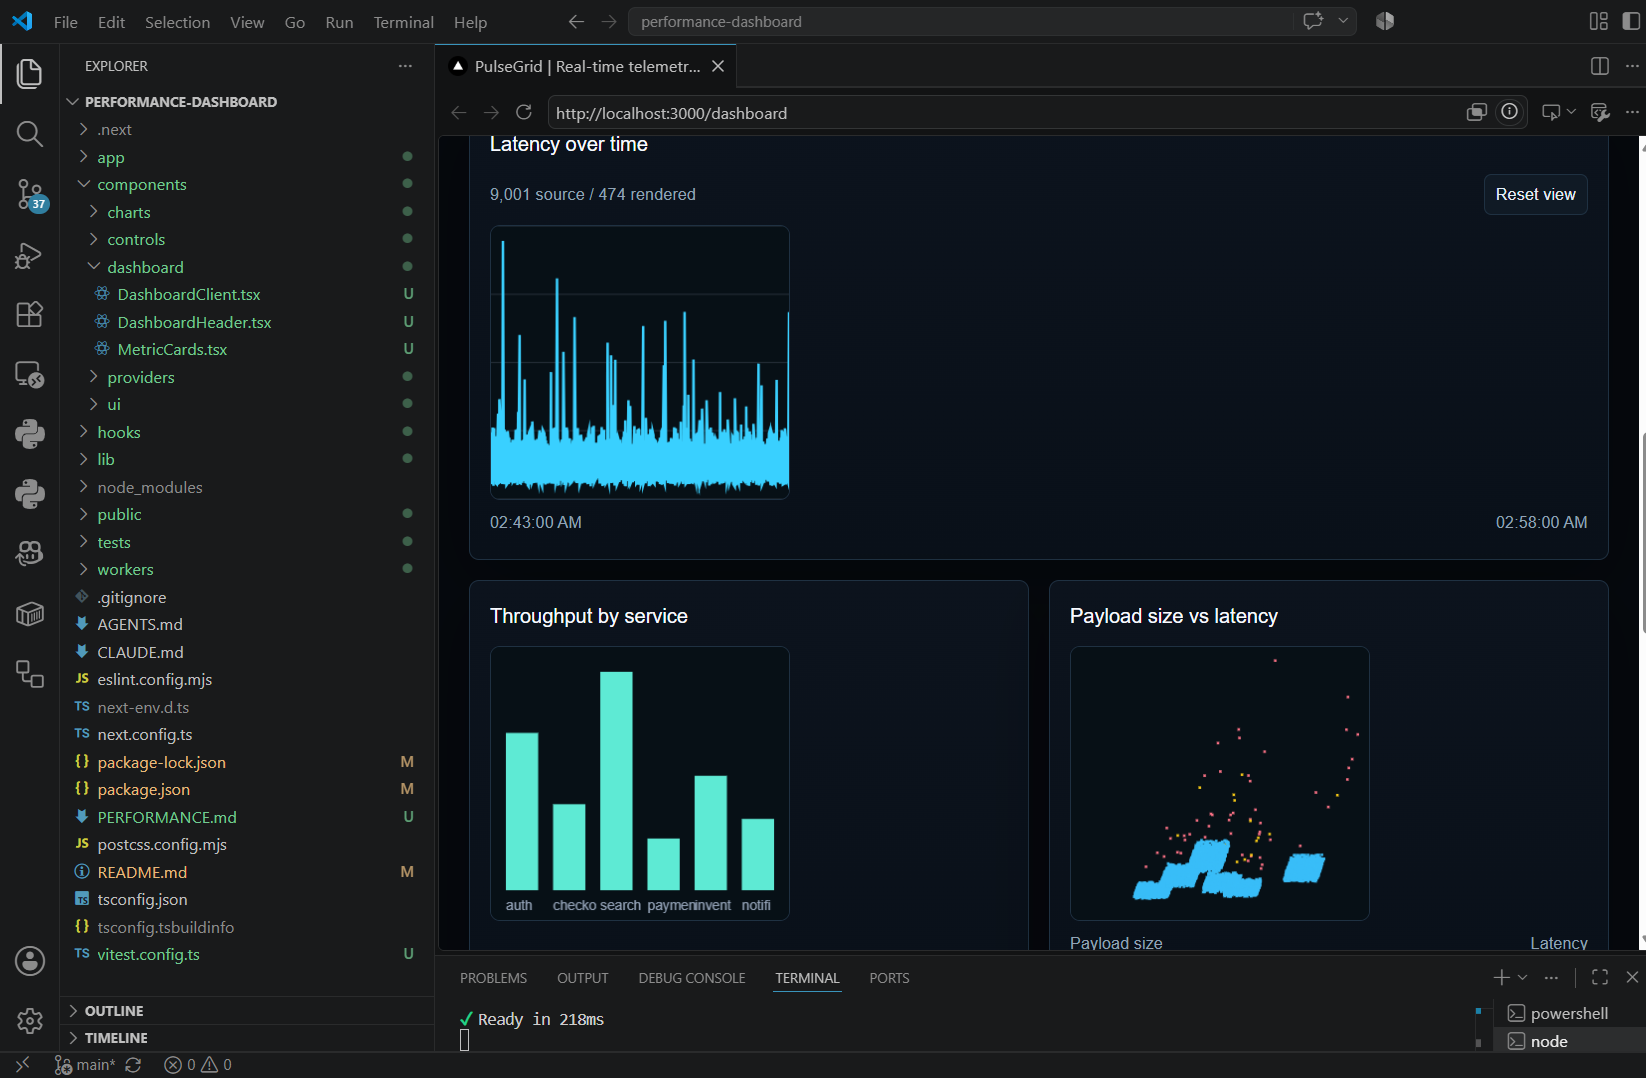
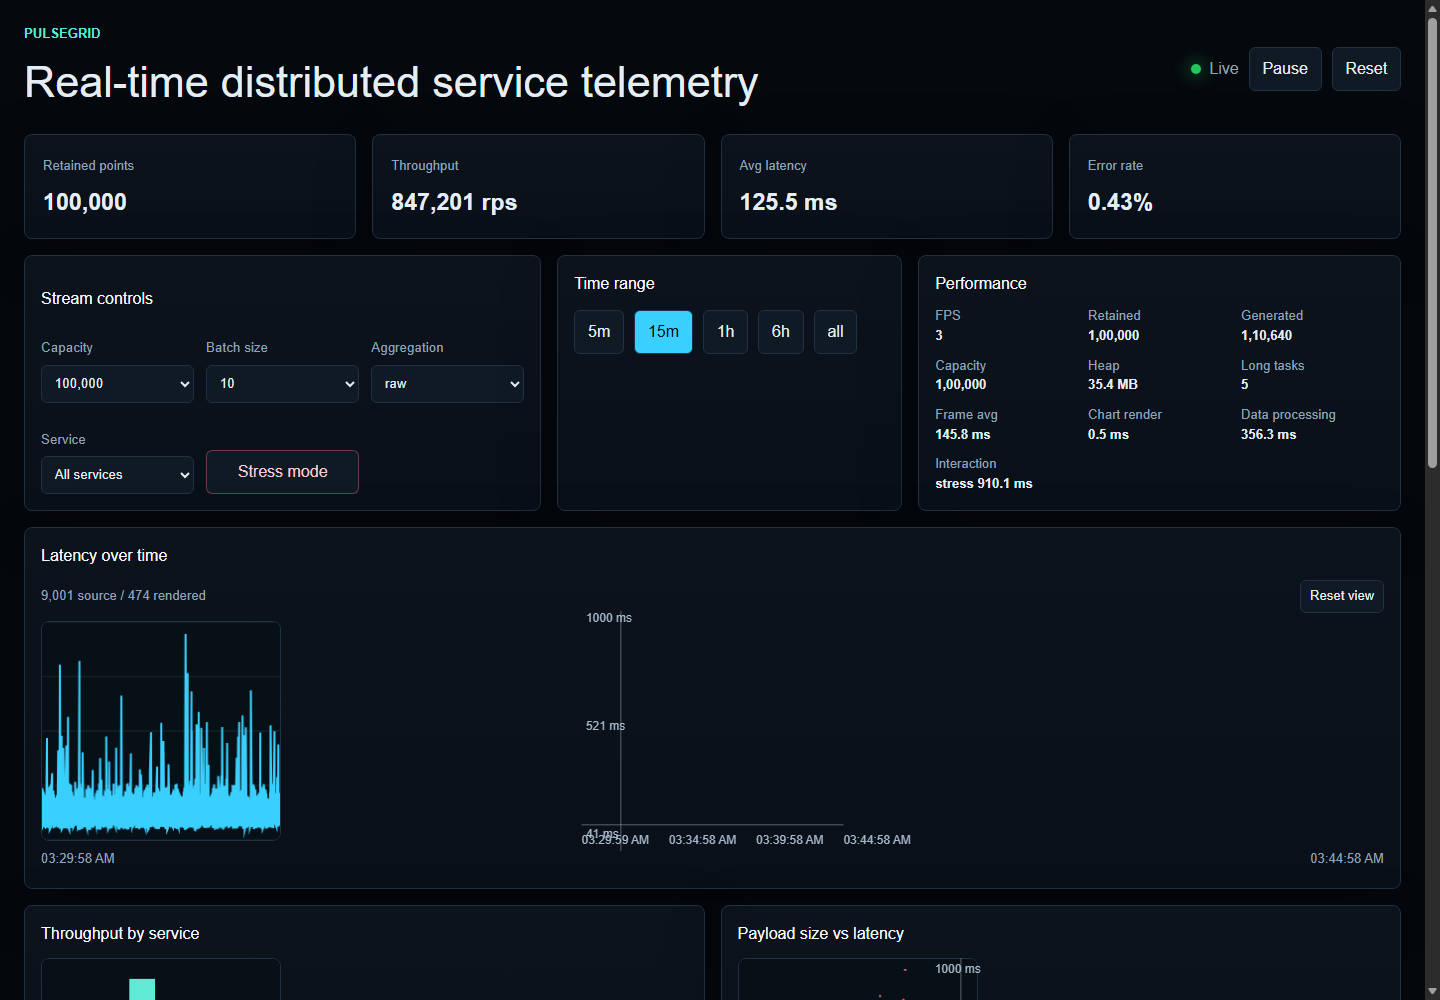
Polish portfolio README and screenshots

diff --git a/README.md b/README.md
@@ -1,36 +1,154 @@
 # PulseGrid
 
-PulseGrid is a production-build-safe Next.js App Router telemetry dashboard MVP for monitoring distributed application services. It simulates realistic service telemetry, keeps retained data bounded, and renders dense charts manually without charting libraries.
+High-performance real-time telemetry dashboard built with Next.js App Router, TypeScript, custom Canvas rendering, SVG overlays, custom table virtualization, bounded in-memory storage, and worker-backed processing.
 
-## Live Demo
+[Live Demo](https://performance-dashboard-rose.vercel.app/dashboard)  
+[GitHub Repository](https://github.com/ayushxt25/Performance-Dashboard)
 
-Live demo: `TODO: add deployed URL for the submitted recruitment build`.
+`Next.js 16` `React 19` `TypeScript` `Canvas` `SVG overlays` `Web Worker` `Vitest`
 
-## Features
+## Project Preview
 
-- Deterministic telemetry generation for latency, throughput, CPU, memory, error rate, payload size and status.
-- Fixed-capacity ring buffer with 10,000, 50,000 and 100,000 point presets.
-- Live updates every 100ms with pause, resume, reset, service filters, time ranges and stress mode.
-- Manual line, bar and scatter charts rendered with Canvas.
-- Lightweight SVG overlays for semantic chart titles, descriptions, axes, tick labels and crosshair elements.
-- HTML overlays for tooltips, legends and controls.
-- Worker-backed aggregation with main-thread fallback.
-- Custom virtualized raw telemetry table.
-- Visible FPS, frame duration, chart render duration, data-processing duration, interaction latency, heap availability, long-task and retained-point monitoring.
-- React hooks and Context only for state management.
-- Concurrent UI transitions for aggregation, filtering, time-range and stress-mode changes.
+![PulseGrid dashboard overview](public/screenshots/dashboard-overview.png)
+
+Dashboard overview captured from the deployed application. It shows the live telemetry header, KPI cards, stream controls, performance monitor, Canvas charts, heatmap, and virtualized table.
+
+![PulseGrid stress test mode](public/screenshots/stress-test.png)
+
+Stress-test mode using the real UI and live measured values. The screenshot is not edited and does not fabricate performance numbers.
+
+![PulseGrid mobile dashboard](public/screenshots/mobile-dashboard.png)
+
+Mobile viewport showing the responsive control panel and chart layout.
+
+![PulseGrid virtualized table](public/screenshots/virtualized-table.png)
+
+Raw telemetry table with custom virtual scrolling and rendered-row count.
+
+## Overview
+
+PulseGrid is a dark observability-style dashboard for monitoring simulated distributed application services. It generates telemetry for service latency, throughput, CPU usage, memory usage, error rate, payload size, region, and status.
+
+The project is intentionally performance-focused. It retains large datasets in bounded memory, ingests new telemetry every 100ms, avoids external chart libraries, and renders dense chart marks manually with Canvas. Lightweight SVG and HTML layers handle axes, labels, descriptions, controls, and interaction affordances where DOM-based rendering is more appropriate.
+
+PulseGrid was built as a recruitment assignment to demonstrate practical frontend architecture: Server Components for initial data, Client Components for interaction, careful React state boundaries, custom chart rendering, Web Worker processing, and production-build validation.
+
+## Key Features
+
+- Real-time simulated telemetry updates every 100ms.
+- Typed telemetry model with services, regions, statuses, latency, throughput, CPU, memory, error rate, and payload size.
+- Capacity presets for 10,000, 50,000, and 100,000 retained points.
+- Fixed-capacity circular buffer to prevent unbounded memory growth.
+- Pause, resume, reset, batch-size controls, and stress-test mode.
+- Service filtering and time-range selection.
+- Raw, 1-minute, 5-minute, and 1-hour aggregation modes.
+- Canvas line chart for latency over time with zoom, pan, reset view, hover tooltip, and viewport-aware downsampling.
+- Canvas bar chart for throughput by service.
+- Canvas scatter plot for payload size versus latency.
+- Service latency heatmap.
+- SVG overlays for semantic chart structure, axis lines, tick labels, and the latency crosshair.
+- Custom virtualized telemetry table without an external virtualization library.
+- Visible performance monitor for FPS, frame duration, chart render duration, data-processing duration, interaction latency, retained/generated points, long tasks, and heap support detection.
+- Web Worker aggregation path with stale-response protection and main-thread fallback.
+- Responsive desktop, tablet, and mobile layout.
+- App Router loading and error boundaries.
+- Bundle-size analysis script for aggregate browser JavaScript assets.
+- Focused Vitest coverage for the ring buffer, aggregation, downsampling, virtualization range calculation, and time-range filtering.
+
+## Performance Highlights
+
+- **Bounded retention:** telemetry is stored in a fixed-capacity ring buffer rather than an ever-growing array.
+- **Decoupled ingestion and rendering:** new telemetry is generated every 100ms, while React receives batched lightweight updates instead of replacing the full retained dataset every tick.
+- **Canvas for dense marks:** line, bar, and scatter chart marks are drawn to Canvas to avoid thousands of DOM nodes.
+- **SVG and HTML overlays:** SVG provides semantic chart titles/descriptions, axes, tick labels, and crosshair elements; HTML handles controls, legends, and tooltips.
+- **Viewport-aware downsampling:** the latency line reduces rendered points when source data substantially exceeds available horizontal pixels.
+- **Worker-backed processing:** aggregation and heatmap calculation can run in a Web Worker, with request IDs used to ignore stale responses.
+- **Custom virtualization:** the raw telemetry table renders only visible rows plus overscan and displays rendered rows versus total rows.
+- **Measured bundle asset size:** `npm run analyze:size` reported `670,505` raw bytes and `200,902` gzip bytes across aggregate `.next/static/chunks` JavaScript assets for the completed production build.
+
+The bundle-size result is an aggregate build-asset measurement. It may include shared chunks that are not all loaded on the dashboard route. Runtime performance varies by device, browser, build, and active controls. See [PERFORMANCE.md](PERFORMANCE.md) for methodology, caveats, and scaling notes.
 
 ## Architecture
 
-The `/dashboard` page is a Server Component. It creates a serializable 10,000-point initial dataset and passes it to `DashboardClient`. Client state is provided through React Context and hooks only. The high-frequency store is a ref-backed `RingBuffer`, while React state carries controls, summaries, visible snapshots and version ticks.
+```mermaid
+flowchart TD
+  A["Next.js Server Component<br/>app/dashboard/page.tsx"] --> B["Serializable initial telemetry<br/>10,000 points"]
+  B --> C["Client DataProvider<br/>React Context + hooks"]
+  C --> D["Bounded RingBuffer"]
+  D --> E["Web Worker aggregation<br/>with stale response IDs"]
+  D --> F["Canvas chart renderers"]
+  F --> G["SVG/HTML overlays<br/>axes, labels, tooltips"]
+  D --> H["Custom virtualized table"]
+  I["Controls<br/>filter, range, capacity, stress"] --> C
+  C --> J["Performance monitor<br/>FPS, memory support, timings"]
+```
 
-The ingestion timer appends generated batches every 100ms, while UI notifications are batched at a slower cadence so the full retained dataset is not replaced in React state every tick. Aggregation and heatmap calculations run in `workers/data.worker.ts` when Web Workers are available.
+### Data Flow
 
-## Canvas And SVG Hybrid
+1. `app/dashboard/page.tsx` generates the initial dataset as a Server Component.
+2. `DashboardClient` passes that data into `DataProvider`.
+3. `DataProvider` stores high-frequency telemetry in a ref-backed `RingBuffer`.
+4. React state tracks controls, summary metrics, visible snapshots, and version counters.
+5. Worker-backed processing recomputes aggregation and heatmap data when filters, ranges, aggregation, or stress mode changes.
+6. Chart components render dense marks on Canvas and use SVG/HTML for lightweight overlays.
+7. The telemetry table computes a visible range from `scrollTop` and renders only rows in that range plus overscan.
 
-Canvas renders dense chart marks because it can draw thousands of points without creating thousands of DOM nodes. SVG is used as a genuine overlay layer for chart semantics and lightweight vector elements such as axis lines, tick labels and the latency crosshair. HTML remains responsible for controls, tooltips, legends and responsive layout.
+## Tech Stack
 
-## Setup
+- Next.js App Router
+- React
+- TypeScript
+- Canvas 2D API
+- SVG overlays
+- Web Workers
+- ResizeObserver
+- PerformanceObserver
+- Vitest
+- ESLint
+
+No charting library, component library, external state-management library, database, authentication layer, WebSocket server, or middleware is used.
+
+## Next.js Implementation
+
+- `/dashboard` is implemented with the App Router.
+- `app/dashboard/page.tsx` remains a Server Component for initial telemetry generation.
+- Interactive dashboard functionality is isolated in Client Components.
+- `/api/data` is an App Router Route Handler for generated telemetry batches.
+- `loading.tsx` and `error.tsx` provide route-level loading and error states.
+- The production build statically generates `/dashboard` and serves `/api/data` dynamically.
+
+## Project Structure
+
+```text
+app/
+  api/data/route.ts          Generated telemetry Route Handler
+  dashboard/                 App Router dashboard route
+components/
+  charts/                    Manual Canvas charts and SVG overlays
+  controls/                  Stream controls and time-range selector
+  dashboard/                 Dashboard shell, header, KPI cards
+  providers/                 Ref-backed DataProvider
+  ui/                        Performance monitor and virtualized table
+hooks/
+  useDataStream.ts           Typed data Context hook
+lib/
+  aggregation.ts             Filtering, aggregation, heatmap helpers
+  canvasUtils.ts             Canvas setup and downsampling helpers
+  dataGenerator.ts           Deterministic telemetry generator
+  performanceUtils.ts        Virtualization range calculation
+  ringBuffer.ts              Fixed-capacity circular buffer
+  types.ts                   Shared TypeScript types
+workers/
+  data.worker.ts             Worker aggregation path
+tests/
+  *.test.ts                  Focused Vitest tests for pure behavior
+scripts/
+  analyze-size.mjs           Aggregate JavaScript asset-size analyzer
+public/screenshots/
+  *.png                      README screenshots captured from deployment
+```
+
+## Getting Started
 
 ```bash
 npm install
@@ -39,7 +157,23 @@ npm run dev
 
 Open `http://localhost:3000/dashboard`.
 
-## Production Build
+## Available Scripts
+
+```bash
+npm run dev
+npm run lint
+npm run typecheck
+npm run test
+npm run build
+npm run start
+npm run analyze:size
+```
+
+`analyze:size` expects a completed production build and reads JavaScript assets from `.next/static/chunks`.
+
+## Validation
+
+The project is validated with:
 
 ```bash
 npm run lint
@@ -48,52 +182,33 @@ npm run test
 npm run build
 ```
 
-## Performance Testing
+The test suite covers:
 
-Use the dashboard's Performance panel while changing capacity, batch size, aggregation and service filters. The monitor reports measured FPS, frame duration, chart render duration, data-processing duration, latest interaction latency, retained/generated points, long tasks and heap information when the browser exposes it.
-
-## Stress-Test Instructions
-
-1. Select a capacity of 50,000 or 100,000 points.
-2. Click `Stress mode`.
-3. Watch the Performance panel for measured interaction latency, data-processing duration, FPS and long-task count.
-4. Verify that the table still reports rendered rows versus total rows.
-
-Do not record benchmark values in documentation until measured on the target machine and browser.
-
-## Browser Compatibility
-
-PulseGrid uses Canvas, SVG, ResizeObserver, Web Workers, requestAnimationFrame and PerformanceObserver. Heap usage is shown only in browsers that expose `performance.memory`; otherwise the UI reports `Not supported`.
-
-## Next.js Optimizations
-
-- `app/dashboard/page.tsx` remains a Server Component and generates initial data.
-- `DashboardClient` and descendants are Client Components because they use hooks, timers, pointer events, Canvas and browser performance APIs.
-- `app/api/data/route.ts` provides configurable generated batches through a Route Handler.
-- `/dashboard` is statically generated by the production build when appropriate.
-- Non-critical performance monitoring is loaded behind a Suspense boundary.
-
-## Screenshots
-
-Screenshot placeholders and current local screenshot targets:
-
-- `public/screenshots/dashboard-overview.png`
-- `public/screenshots/heatmap.png`
-- `public/screenshots/stress-test.png`
-
-## Project Structure
-
-- `app/dashboard/*`: dashboard route, loading and error states.
-- `app/api/data/route.ts`: generated telemetry batch API.
-- `lib/*`: typed telemetry, generation, ring buffer, aggregation, downsampling and virtualization helpers.
-- `components/providers/*`: ref-backed stream provider.
-- `components/charts/*`: manual Canvas charts with SVG overlays where useful.
-- `components/dashboard/*`: dashboard shell and KPI cards.
-- `components/controls/*`: filters, load controls and range controls.
-- `components/ui/*`: performance monitor and virtualized table.
-- `workers/data.worker.ts`: worker aggregation path.
-- `tests/*`: pure utility tests.
+- Circular-buffer overwrite behavior.
+- Aggregation correctness and aggregation shape changes.
+- Time-range filtering.
+- Viewport-aware downsampling.
+- Virtualized table range calculation.
 
 ## Deployment
 
-Build with `npm run build` and deploy as a standard Next.js application on Vercel or any host that supports Next.js App Router.
+The live deployment is available at:
+
+https://performance-dashboard-rose.vercel.app/dashboard
+
+The app can be deployed as a standard Next.js application on Vercel or any host that supports the Next.js App Router production build.
+
+## Browser Notes
+
+PulseGrid uses Canvas, SVG, ResizeObserver, Web Workers, requestAnimationFrame, and PerformanceObserver. Heap usage is shown only when the browser exposes `performance.memory`; otherwise the dashboard reports `Not supported`.
+
+## Limitations
+
+- The telemetry is simulated and deterministic; it is not connected to a production service or database.
+- Worker requests currently receive snapshots rather than shared typed-array buffers.
+- Benchmark values other than the aggregate JavaScript asset-size measurement are intentionally left as measurement placeholders in `PERFORMANCE.md`.
+- Browser support for heap and long-task reporting varies.
+
+## Documentation
+
+- [PERFORMANCE.md](PERFORMANCE.md) explains rendering decisions, bounded memory, worker usage, virtualization, measurement methodology, and scaling considerations.
